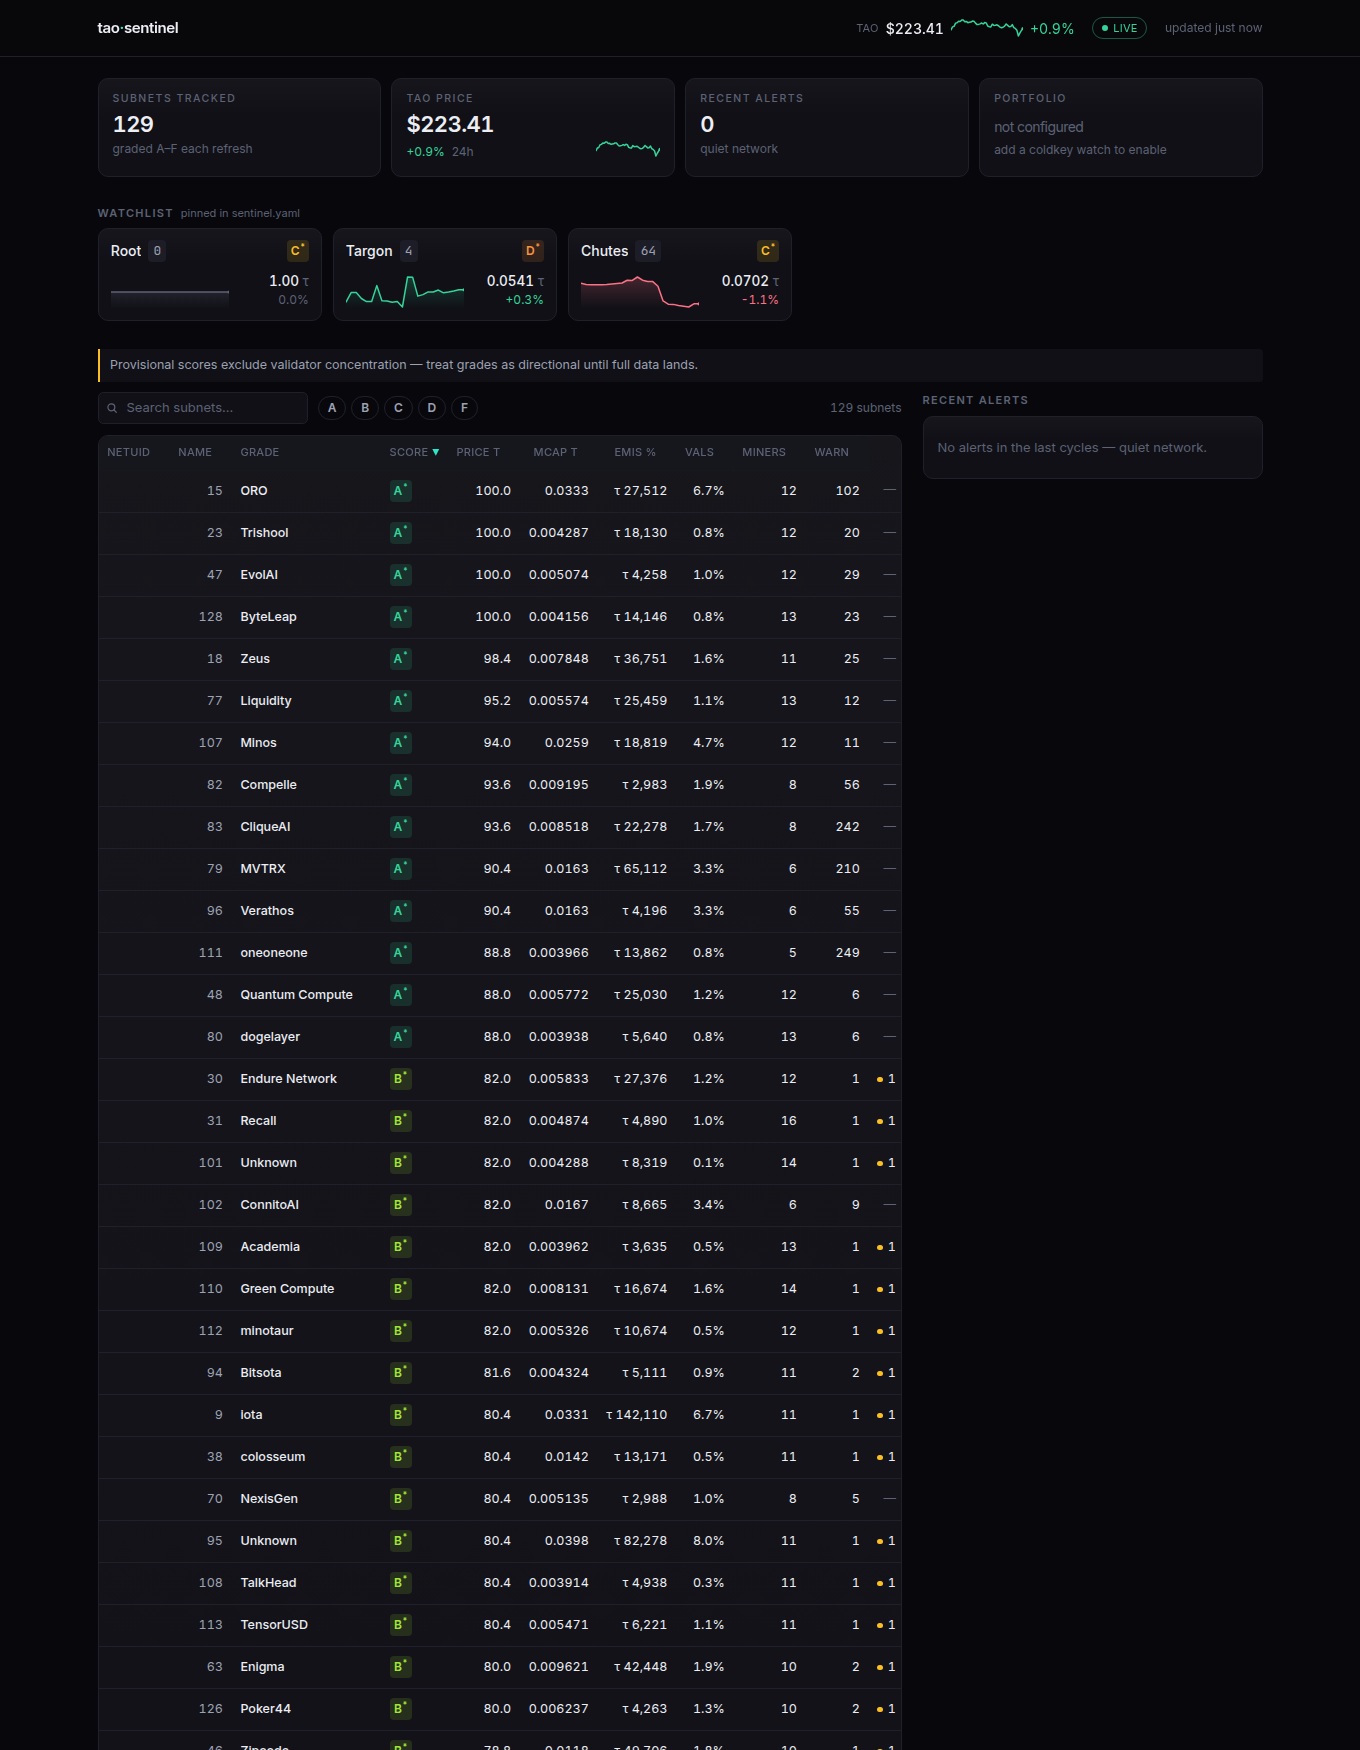
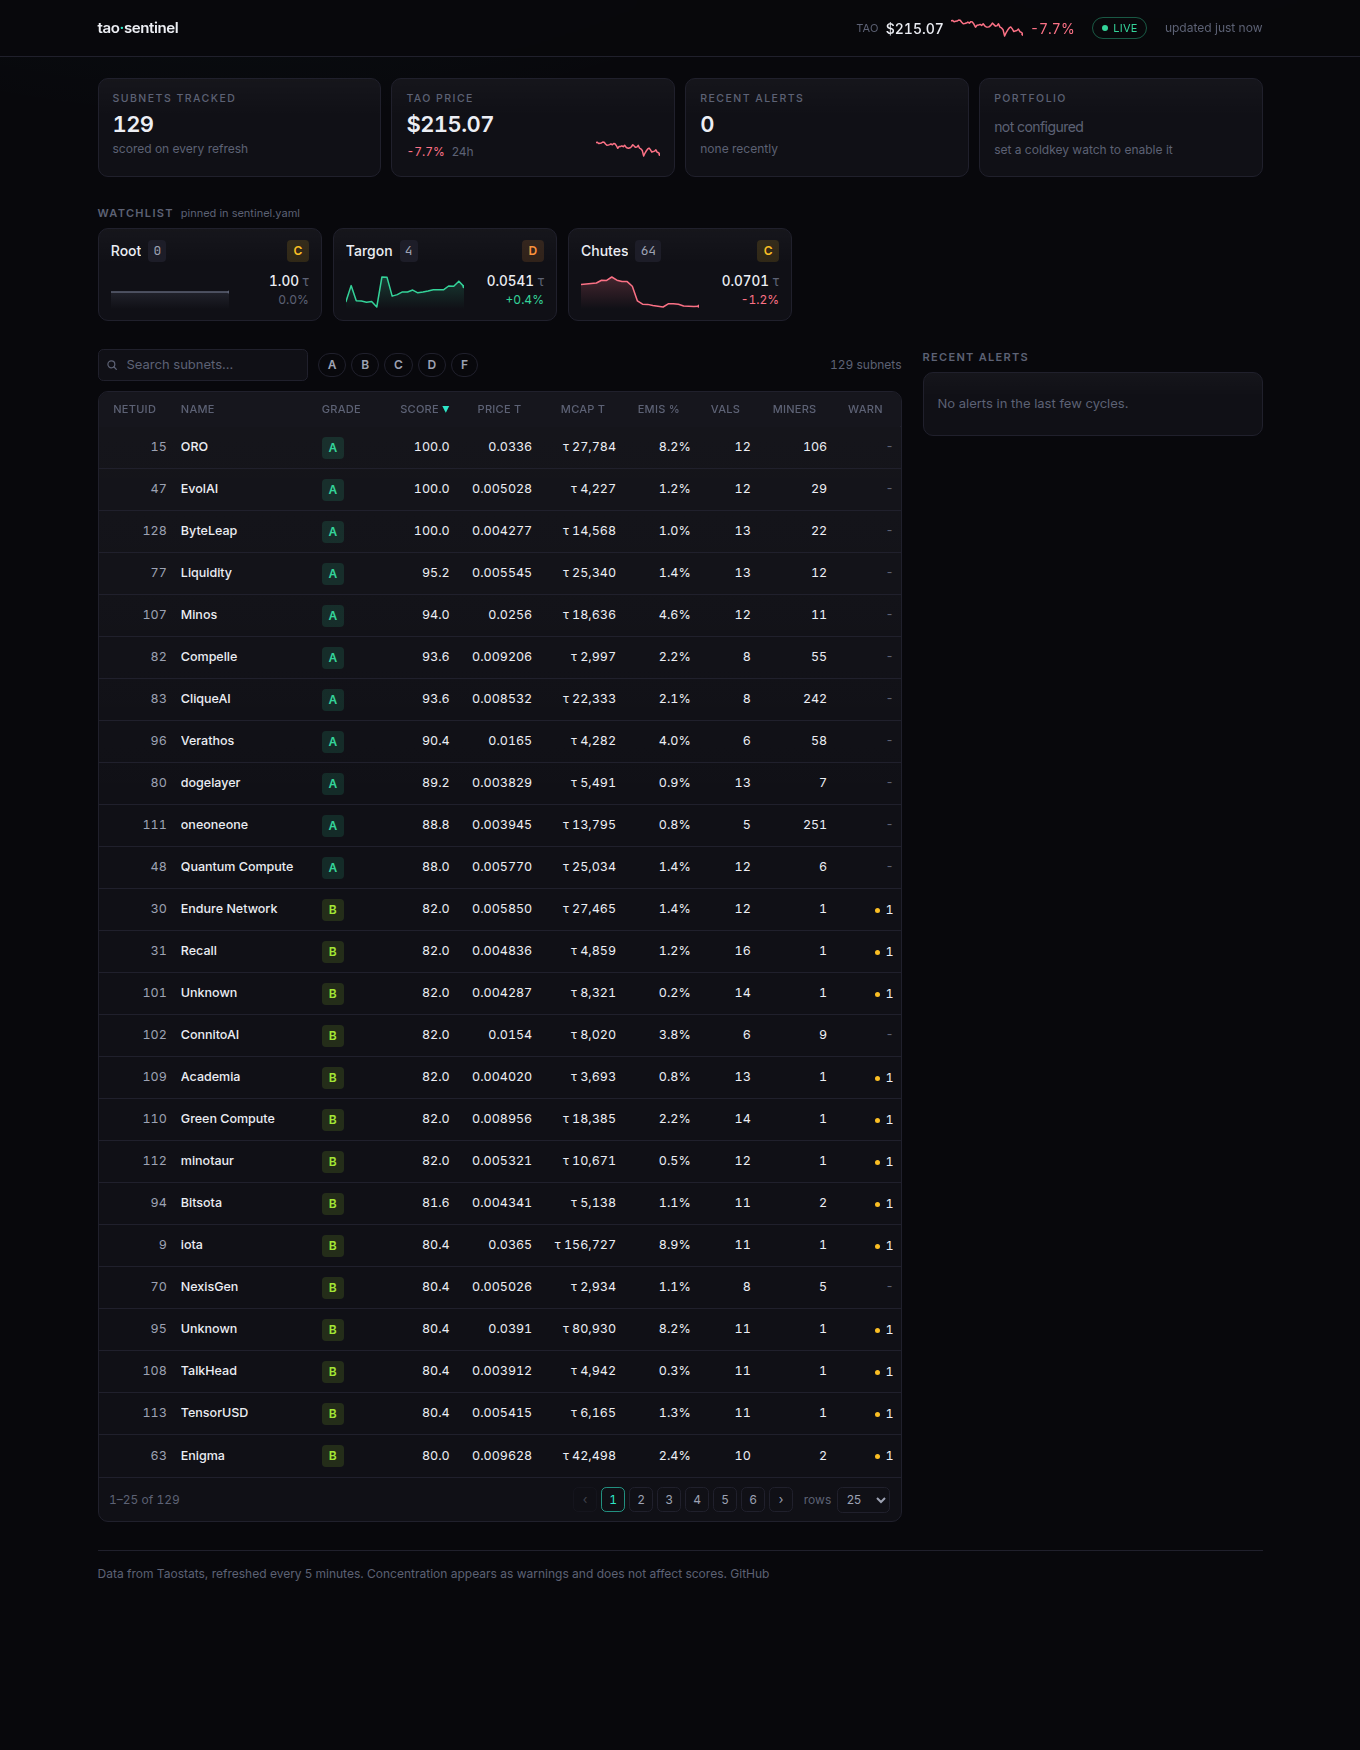
docs: refresh README screenshots (paginated dashboard, subnet detail)
Both captured from the live site after the design, pagination, and
copy passes; adds the detail page as a second screenshot.

diff --git a/README.md b/README.md
@@ -27,6 +27,11 @@ mainnet data on the Taostats free tier.
 
 ![tao-sentinel dashboard with live mainnet subnet health grades](docs/dashboard.png)
 
+The per-subnet detail page shows the price chart, pool reserves, score breakdown, and the
+top validators by stake, with concentration called out as warnings:
+
+![tao-sentinel subnet detail page with validators and concentration warnings](docs/subnet.png)
+
 > Open source. Issues and PRs welcome.
 
 ---